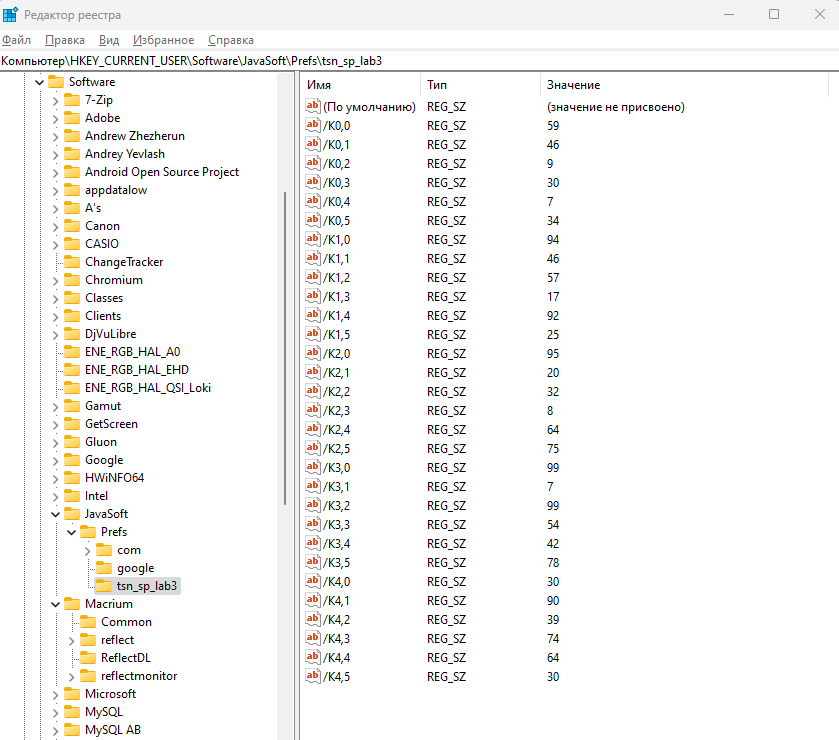
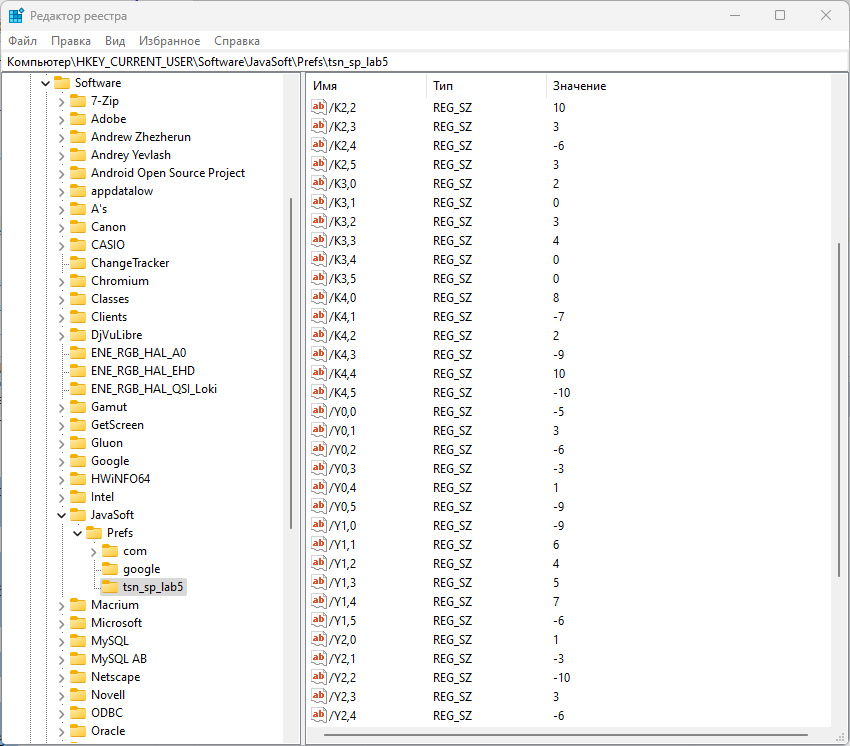
update

Changed region(s): [[0.0, 0.0, 1.0, 1.0], [0.8987, 0.0, 0.9297, 0.0311]]

diff --git a/Тема 5 - Работа с Preferences/TSN_JAVA_Preferences_matrix/src/tsn_java_preferences/TSN_JAVA_Preferences_matrix.java b/Тема 5 - Работа с Preferences/TSN_JAVA_Preferences_matrix/src/tsn_java_preferences/TSN_JAVA_Preferences_matrix.java
@@ -5,7 +5,7 @@ import java.util.prefs.Preferences;
 public class TSN_JAVA_Preferences_matrix {
 
     public static void main(String[] args) {
-        Preferences node = Preferences.userRoot().node("tsn_sp_lab3");
+        Preferences node = Preferences.userRoot().node("tsn_sp_lab5");
 
         final int R = 5; // Количество строк
         final int C = 6; // Количество столбцов
@@ -16,18 +16,19 @@ public class TSN_JAVA_Preferences_matrix {
         System.out.println("Laboratory work");
         System.out.println("Task: MAX <> MIN");
 
-        // Заполняем массив случайными числами
+        // Заполняем (создаем) массив в реестре случайными числами
         for (int i = 0; i < R; i++) {
             for (int j = 0; j < C; j++) {
-                k = (int) Math.round(Math.random() * 101);
-                m[i][j] = k;
+                k = (int) Math.round(-10 + Math.random() * 20);
+                node.putInt("K" + i + "," + j, k);
             }
         }
 
-        // Вывод на экран изначального массива
+        // Чтение массива из реестра и вывод его на экран
         System.out.println("Matrix:");
         for (int i = 0; i < R; i++) {
             for (int j = 0; j < C; j++) {
+                m[i][j] = node.getInt("K" + i + "," + j, 0);
                 System.out.print(String.valueOf(m[i][j]) + " ");
 
             }
@@ -55,18 +56,18 @@ public class TSN_JAVA_Preferences_matrix {
         m[maxi][maxj] = m[mini][minj];
         m[mini][minj] = k;
 
-        // Заносим данные массива в реестр
+        // Заносим данные измененного массива в реестр
         for (int i = 0; i < R; i++) {
             for (int j = 0; j < C; j++) {
-                node.putInt("K" + i + "," + j, m[i][j]);
+                node.putInt("Y" + i + "," + j, m[i][j]);
             }
         }
 
-        // Считываем данные массива из реестра и выводим их на экран
+        // Считываем данные измененного массива из реестра и выводим их на экран
         System.out.println("New matrix:");
         for (int i = 0; i < R; i++) {
             for (int j = 0; j < C; j++) {
-                System.out.print(node.getInt("K" + i + "," + j, 0) + " ");
+                System.out.print(node.getInt("Y" + i + "," + j, 0) + " ");
             }
             System.out.println("");
         }

diff --git a/Тема 5 - Работа с Preferences/TSN_JAVA_Preferences_matrix/README.md b/Тема 5 - Работа с Preferences/TSN_JAVA_Preferences_matrix/README.md
@@ -5,16 +5,16 @@
 Laboratory work
 Task: MAX <> MIN
 Matrix:
-59 46 9 30 99 34 
-94 46 57 17 92 25 
-95 20 32 8 64 75 
-7 7 99 54 42 78 
-30 90 39 74 64 30 
+-5 3 -6 -3 1 -9 
+-9 6 4 5 7 -6 
+1 -3 10 3 -6 3 
+2 0 3 4 0 0 
+8 -7 2 -9 10 -10 
 New matrix:
-59 46 9 30 7 34 
-94 46 57 17 92 25 
-95 20 32 8 64 75 
-99 7 99 54 42 78 
-30 90 39 74 64 30 
+-5 3 -6 -3 1 -9 
+-9 6 4 5 7 -6 
+1 -3 -10 3 -6 3 
+2 0 3 4 0 0 
+8 -7 2 -9 10 10 
 ```
 ![srcreenshot](screenshot.png)
